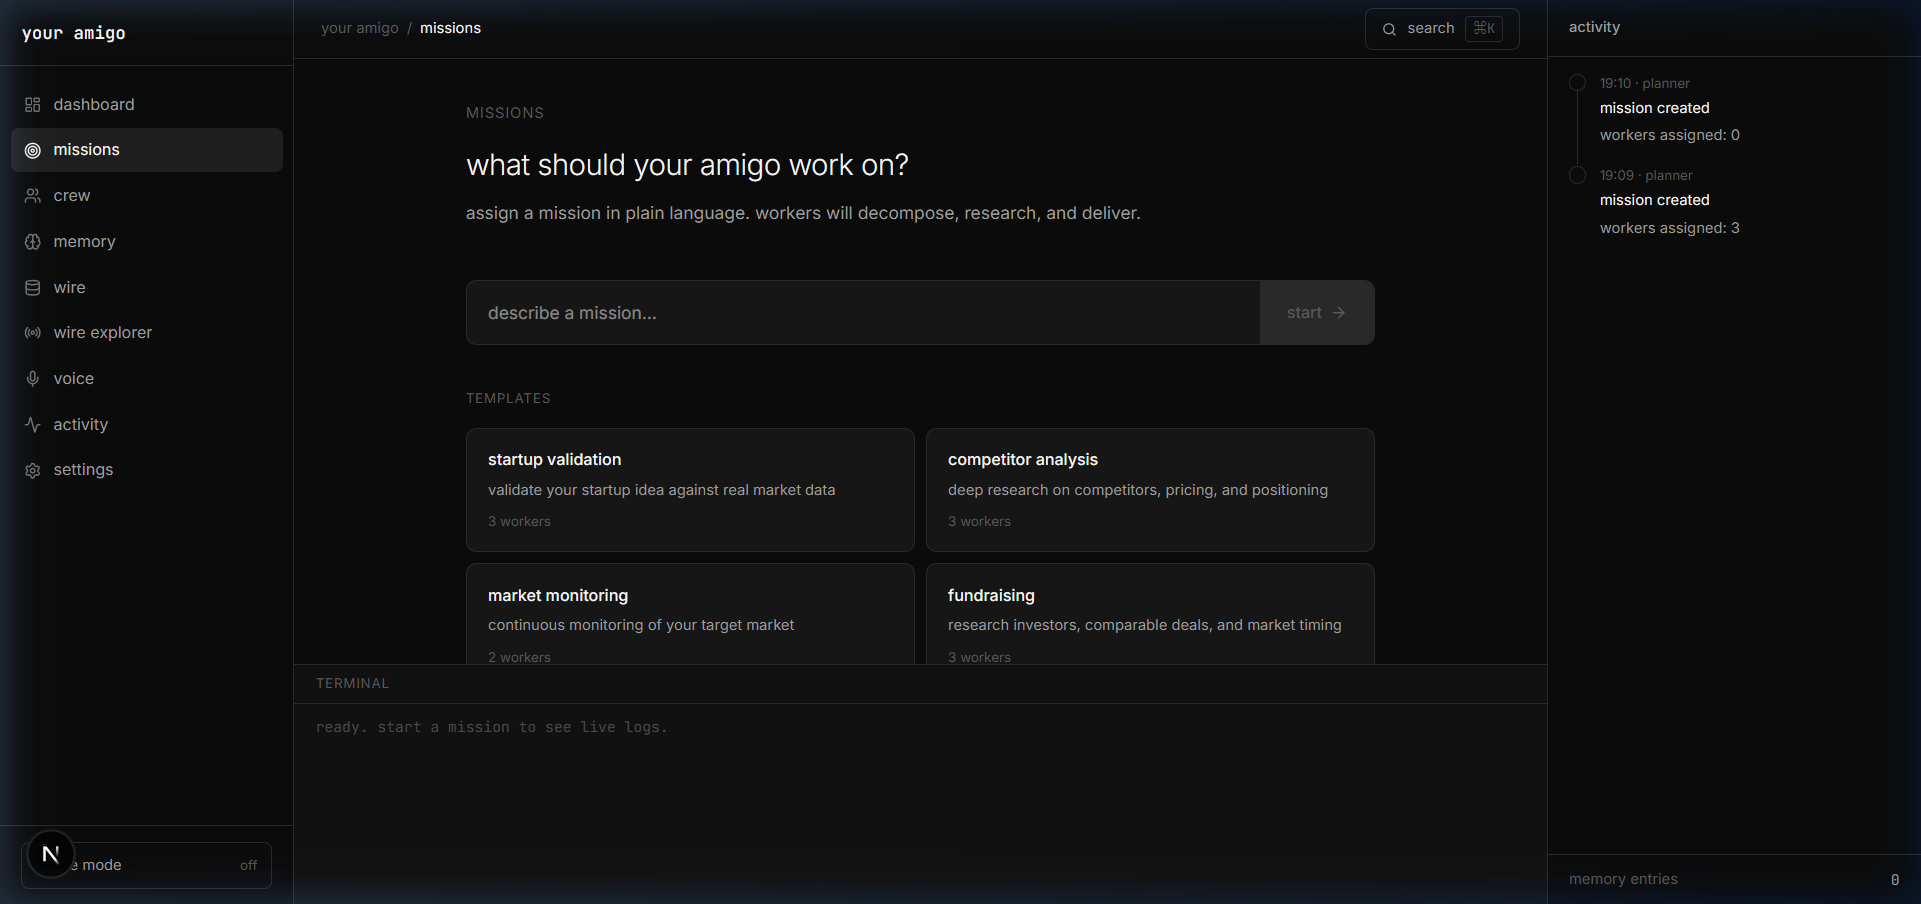
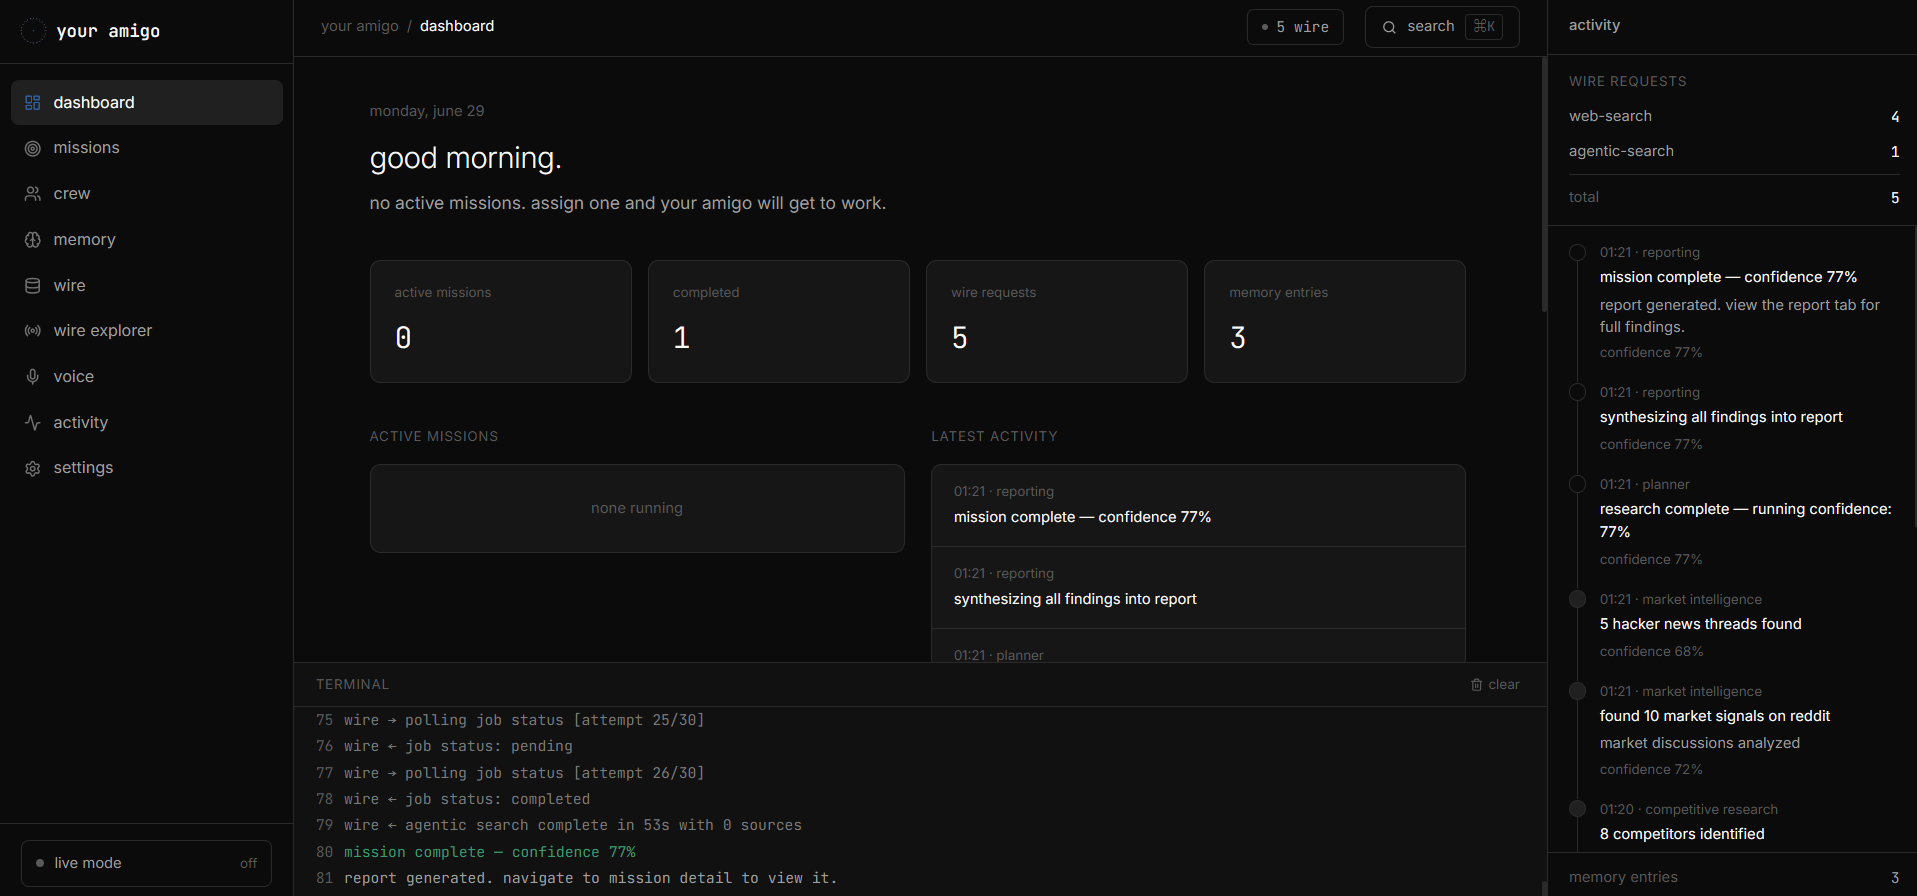
docs : update screenshots and readme assets

diff --git a/README.md b/README.md
@@ -110,14 +110,23 @@ Open [http://localhost:3000](http://localhost:3000) in your browser.
 
 ## screenshots
 
-### dashboard overview
-![dashboard overview](/screenshots/dashboard.png)
+### landing page
+![landing page](/screenshots/landing.png)
 
-### missions assignment
-![missions assignment](/screenshots/missions.png)
+### missions workspace
+![missions workspace](/screenshots/missions.png)
+
+### mission research details
+![mission research details](/screenshots/mission-detail.png)
 
 ### anakin wire explorer
 ![wire explorer](/screenshots/wire-explorer.png)
 
-### executive report generated
-![executive report generated](/screenshots/report.png)
+### memory semantic graph
+![memory semantic graph](/screenshots/memory-graph.png)
+
+### voice command mic
+![voice command mic](/screenshots/voice.png)
+
+### settings panel
+![settings panel](/screenshots/settings.png)